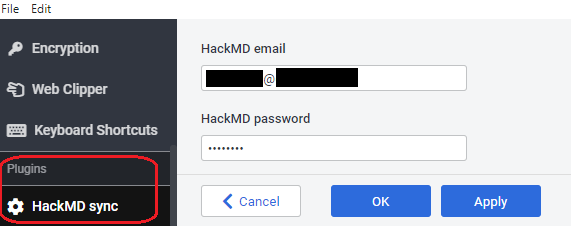
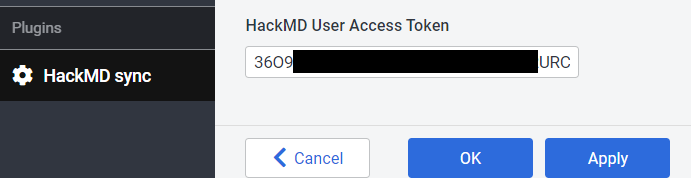
docs update

diff --git a/README.md b/README.md
@@ -8,9 +8,9 @@ It allows sharing notes online on the HackMD website
 - Uploads note online using HackMD website (one-way share: Joplin :arrow_right: HackMD)
 	>  - Content: {temporary} text only _(see 'Roardmap')_
 	>  - Access for a new note by default: read - everyone; write - owner only;
+- Content of already uploaded note could be updated by re-share
 
 #### RoadMap:
- - Share a note with specified name _([PR](https://github.com/hackmdio/api-client/pull/14) to SDK already raised)_
  - Share with pictures
  - Bulk share
  - Continuous syncing  _(one-way periodical sync Joplin :arrow_right: HackMD)_
@@ -36,10 +36,10 @@ It allows sharing notes online on the HackMD website
 
 ## Usage
 ### Register on [HackMD.io](https://hackmd.io)
-Register with email and password _(it's free ;) )_
+Then create personal access token ([instruction](https://hackmd.io/@hackmd-api/developer-portal/https%3A%2F%2Fhackmd.io%2F%40hackmd-api%2Fhow-to-issue-an-api-token))
 
 ### Fill HackMD plugin settings
-Open `Tools > Options > HackMD sync` and fill username & password fields
+Open `Tools > Options > HackMD sync` and fill the `HackMD User Access Token` field
 
 ![HackMD sync settings|571x227, 75%](docs/HackMD_sync_settings.png)
 
@@ -56,7 +56,7 @@ Wait. If everything is ok - note body will contain link to note on HackMD
 ## Support
 **Best support is contribution** \
 You like this plugin as much as I do and it improves your daily work with Joplin?
-Then I would be very happy if you buy me a :coffee: via [PayPal](https://paypal.me/xardbaiz) :wink:
+Then I would be very happy if you buy me a :coffee: via [Revolut](https://revolut.me/xardbaiz) :wink:
 
 ## Contributing
 Contributions to this plugin are most welcome. Feel free to open a pull request or an issue.
